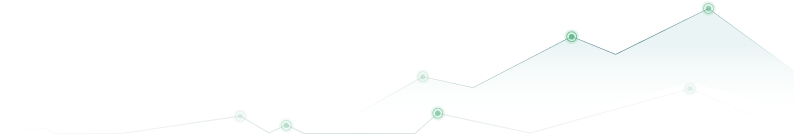
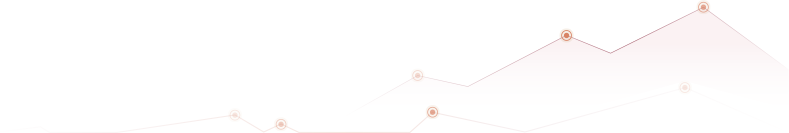
landing and drag animations

diff --git a/app/landing-3/css/main.css b/app/landing-3/css/main.css
@@ -53,7 +53,7 @@ nav ul {
     padding: 0;
 }
 nav a {
-    color: #4b949c;
+    color: #5a5a5a;
     font-size: 14px;
     font-weight: 400;
     line-height: 20px;
@@ -63,10 +63,10 @@ nav a {
 }
 nav a:hover {
     text-decoration: none;
-    color: #53BFC4;
+    color: #cb580b;
 }
 nav a:hover div.signIn {
-    background: url(../img/sign-in-hover.png);
+    background: url(../img/sign-in-hover2.png);
 }
 nav a {
     float: left;
@@ -136,11 +136,11 @@ body {
     height: 70px;
 }
 .footer-container {
-    background: url(../img/texture.png), -webkit-linear-gradient(-170deg, #e4dfc0 0%, #adb9a2 40%, #509c98 100%);
-    background: url(../img/texture.png), -moz-linear-gradient(-170deg, #e4dfc0 0%, #adb9a2 40%, #509c98 100%);
-    background: url(../img/texture.png), -o-linear-gradient(-170deg, #e4dfc0 0%, #adb9a2 40%, #509c98 100%);
-    background: url(../img/texture.png), -ms-linear-gradient(-170deg, #e4dfc0 0%, #adb9a2 40%, #509c98 100%);
-    background: url(../img/texture.png), linear-gradient(260deg, #e4dfc0 0%, #adb9a2 40%, #509c98 100%);
+	background: url(../img/texture-orange.png), -webkit-linear-gradient(45deg, #f28365 0%, #fbbc8a 100%);
+	background: url(../img/texture-orange.png), -moz-linear-gradient(45deg, #f28365 0%, #fbbc8a 100%);
+	background: url(../img/texture-orange.png), -o-linear-gradient(45deg, #f28365 0%, #fbbc8a 100%);
+	background: url(../img/texture-orange.png), -ms-linear-gradient(45deg, #f28365 0%, #fbbc8a 100%);
+	background: url(../img/texture-orange.png), linear-gradient(45deg, #f28365 0%, #fbbc8a 100%);
     opacity: 0.9;
     text-align: center;
 }
@@ -150,21 +150,25 @@ body {
 .header-container {
     background: #FDFEFE;
 }
+.header-container .wrapper{
+	padding: 0 30px;
+}
 .logo {
+	background: url("../img/logo-landing.png") no-repeat;
     color: #4b949c;
     font-size: 20px;
     font-weight: 300;
     line-height: 35px;
-    width: 50px;
+    width: 260px;
     float: left;
     height: 50px;
 }
 .slides-bg {
-    background: -webkit-linear-gradient(90deg, rgba(255, 255, 255, 0) 0%, rgba(102, 187, 144, 0.2) 100%);
-    background: -moz-linear-gradient(90deg, rgba(255, 255, 255, 0) 0%, rgba(102, 187, 144, 0.2) 100%);
-    background: -o-linear-gradient(90deg, rgba(255, 255, 255, 0) 0%, rgba(102, 187, 144, 0.2) 100%);
-    background: -ms-linear-gradient(90deg, rgba(255, 255, 255, 0) 0%, rgba(102, 187, 144, 0.2) 100%);
-    background: linear-gradient(0deg, rgba(255, 255, 255, 0) 0%, rgba(102, 187, 144, 0.2) 100%);
+	background: -webkit-linear-gradient(90deg, rgba(255, 255, 255, 0.2) 0%, rgba(255, 253, 249, 0) 3%, rgba(255, 211, 111, 0.7) 100%);
+	background: -moz-linear-gradient(90deg, rgba(255, 255, 255, 0.2) 0%, rgba(255, 253, 249, 0) 3%, rgba(255, 211, 111, 0.7) 100%);
+	background: -o-linear-gradient(90deg, rgba(255, 255, 255, 0.2) 0%, rgba(255, 253, 249, 0) 3%, rgba(255, 211, 111, 0.7) 100%);
+	background: -ms-linear-gradient(90deg, rgba(255, 255, 255, 0.2) 0%, rgba(255, 253, 249, 0) 3%, rgba(255, 211, 111, 0.7) 100%);
+	background: linear-gradient(0deg, rgba(255, 255, 255, 0.2) 0%, rgba(255, 253, 249, 0) 3%, rgba(255, 211, 111, 0.7) 100%);
     height: 276px;
     position: fixed;
     opacity: 0.2;
@@ -175,7 +179,7 @@ body {
 }
 .slide h1 {
     font-weight: 300;
-    color: #4b949c;
+    color: #f28365;
     font-size: 47px;
     font-weight: 100;
     line-height: 52px;
@@ -187,12 +191,11 @@ body {
     position: relative;
 }
 .middle {
-    background-image: url("../img/texture.png");
-    background: url("../img/texture.png"), -webkit-linear-gradient(248deg, #e4dfc0 0%, #adb9a2 50%, #509c98 100%);
-    background: url("../img/texture.png"), -moz-linear-gradient(248deg, #e4dfc0 0%, #adb9a2 50%, #509c98 100%);
-    background: url("../img/texture.png"), -o-linear-gradient(248deg, #e4dfc0 0%, #adb9a2 50%, #509c98 100%);
-    background: url("../img/texture.png"), -ms-linear-gradient(248deg, #e4dfc0 0%, #adb9a2 50%, #509c98 100%);
-    background: url("../img/texture.png"), linear-gradient(248deg, #e4dfc0 0%, #adb9a2 50%, #509c98 100%);
+	background: url(../img/texture-orange.png), -webkit-linear-gradient(45deg, #f28365 0%, #fbbc8a 100%);
+	background: url(../img/texture-orange.png), -moz-linear-gradient(45deg, #f28365 0%, #fbbc8a 100%);
+	background: url(../img/texture-orange.png), -o-linear-gradient(45deg, #f28365 0%, #fbbc8a 100%);
+	background: url(../img/texture-orange.png), -ms-linear-gradient(45deg, #f28365 0%, #fbbc8a 100%);
+	background: url(../img/texture-orange.png), linear-gradient(45deg, #f28365 0%, #fbbc8a 100%);
     position: relative;
     color: #fff;
 }
@@ -257,7 +260,7 @@ footer h2 {
     background: url(../img/arrow_up_hover.png);
 }
 .icon.signIn {
-    background: url(../img/sign-in.png);
+    background: url(../img/sign-in-black.png);
     float: right;
     width: 20px;
     height: 20px;
@@ -603,19 +606,23 @@ Carousel
     width: 40px;
     height: 40px;
 }
-.arrow-right {
+.arrow-right,.arrow-left  {
     background: url(../img/arrow-right.png) no-repeat center;
+	opacity: 0.5;
+	-webkit-transition: opacity 0.2s;
+	-moz-transition: opacity 0.2s;
+	-ms-transition: opacity 0.2s;
+	-o-transition: opacity 0.2s;
+	transition: opacity 0.2s;
     left: -38px;
 }
 .arrow-left {
     background: url(../img/arrow-right.png) no-repeat center;
 }
-.arrow-right:hover {
-    background: url(../img/arrow-right-hover.png) no-repeat center;
+.arrow-right:hover, .arrow-left:hover {
+	opacity: 1;
 }
-.arrow-left:hover {
-    background: url(../img/arrow-right-hover.png) no-repeat center;
-}
+
 .arrow-left, .arrow-left:hover {
     -webkit-transform: rotate(180deg);
     -ms-transform: rotate(180deg);
@@ -737,8 +744,8 @@ WIDE: Main
         right: 192px;
     }
     .slide2-image {
-        bottom: -28px;
-        right: -41px;
+		bottom: 52px;
+		right: -57px;
     }
     .slide3-receipt {
         display: block;
@@ -756,7 +763,7 @@ WIDE: Main
         left: 18px;
     }
     .middle p {
-        padding-right: 80px;
+        padding-right: 30px;
     }
     .slide-header {
         padding-top: 40px;

diff --git a/app/css/app.css b/app/css/app.css
@@ -952,37 +952,40 @@ div.tags {
     text-align: center;
     vertical-align: middle;
     display: table-cell;
-    height: 17px;
-    width: 17px;
+    height: 20px;
+    width: 19px;
     margin-top: 5px;
 }
 .side-bar li .expenses-icon {
-    background: url(../img/icon_costs_grey.png);
+    background: url(../img/icon_costs_grey.png) 3px 1px no-repeat;
 }
 .side-bar li .statistics-icon {
-    background: url(../img/icon_statistics_grey.png);
+    background: url(../img/icon_statistics_grey.png) 3px 1px no-repeat;
 }
 .side-bar li .tagstats-icon {
-    background: url(../img/bytag-black.png);
+    background: url(../img/bytag-black.png) 3px 1px no-repeat;
 }
 .side-bar li .settings-icon {
-    background: url(../img/icon_settings_grey.png);
+    background: url(../img/icon_settings_grey.png) 2px 1px no-repeat;
 }
 .side-bar li.active .expenses-icon {
-    background: url(../img/icon_costs_white.png);
+    background: url(../img/icon_costs_white.png) 3px 1px no-repeat;
 }
 .side-bar li.active .statistics-icon {
-    background: url(../img/icon_statistics_white.png);
+    background: url(../img/icon_statistics_white.png) 3px 1px no-repeat;
 }
 .side-bar li.active .settings-icon {
-    background: url(../img/icon_settings_white.png);
+    background: url(../img/icon_settings_white.png) 2px 1px no-repeat;
 }
 .side-bar li.active .tagstats-icon {
-    background: url(../img/bytag-white.png);
+    background: url(../img/bytag-white.png) 3px 1px no-repeat;
 }
 .side-bar ul li:nth-child(2) {
     border-top: 1px solid rgba(90, 90, 90, 0.1);
     border-bottom: 1px solid rgba(90, 90, 90, 0.1);
+}
+.side-bar ul li:nth-child(3){
+	border-bottom: 1px solid rgba(90, 90, 90, 0.1);
 }
 .tableAction {
     margin-left: 5px;
@@ -1669,6 +1672,33 @@ div[ng-view].ng-leave {
 .stat-tags a {
     margin-left: 12px;
 }
+.tag-list-td .transaction-tags .beforeTag, .tag-list-td .transaction-tags a{
+	-webkit-transition: none;
+	-moz-transition: none;
+	-ms-transition: none;
+	-o-transition: none;
+	transition: none;
+ }
+.tag-list-td .transaction-tags a{
+	transition: box-shadow 0.2s ease-out;
+}
+.stat-tag{
+	-webkit-transition: transform 0.2s ease-out;
+	-moz-transition: transform 0.2s ease-out;
+	-ms-transition: transform 0.2s ease-out;
+	-o-transition: transform 0.2s ease-out;
+	transition: transform 0.2s ease-out;
+}
+.stat-tag:hover{
+	-webkit-transform: translateY(-2px);
+	-moz-transform: translateY(-2px);
+	-ms-transform: translateY(-2px);
+	-o-transform: translateY(-2px);
+	transform: translateY(-2px);
+}
+.stat-tags a:hover{
+	/*box-shadow: 4px 0px 7px 0px rgba(50, 50, 50, 0.2);*/
+}
 .beforeTag {
     content: "";
     float: left;
@@ -2098,11 +2128,11 @@ tr.selected .chekin-icon {
         left: 36px;
     }
     .side-bar li.active .pointer img {
-        max-height: 36px;
+        max-height: 33px;
     }
     .side-bar li {
         width: 36px;
-        height: 36px;
+        height: 33px;
     }
     .side-bar li span {
         display: none;
@@ -2871,7 +2901,7 @@ table.table thead .sorting .sort-icon {
     background: linear-gradient(0deg, rgba(0, 0, 0, 0.06) 0, rgba(79, 79, 79, 0.06) 21%, rgba(79, 79, 79, 0) 70%, rgba(255, 255, 255, .02) 70%, rgba(79, 79, 79, 0.06) 99%, rgba(0, 0, 0, 0.06) 100%);
     background-color: rgba(255, 255, 255, 0.7);
     border-right: 2px solid #fff;
-    padding-left: 20px;
+    padding-left: 9px;
 	border-bottom: 1px solid #fff;
 }
 .bar {
@@ -3015,6 +3045,8 @@ table.table thead .sorting .sort-icon {
     background-color: rgba(0, 0, 0, 0.15);
     border-radius: 6px;
 }
+.tagstats-filter .tags-box:hover{
+}
 .tagstats-filter .host .tags {
 	background: none 10px !important;
 	padding-top: 5px;
@@ -3027,6 +3059,35 @@ table.table thead .sorting .sort-icon {
 	-ms-transition: background-position 0.2s ease;
 	-o-transition: background-position 0.2s ease;
 	transition: background-position 0.2s ease;
+}
+.tagstats-filter .is-dragging .empty .host .tags{
+	background: url(../img/tag-drag-2.png) 10px no-repeat !important;
+	background-position: 185px !important;
+}
+.tagstats-filter .tags:before{
+	opacity: 0;
+	-webkit-transition: opacity 0.1s linear 0s;
+	-moz-transition: opacity 0.1s linear 0s;
+	-ms-transition: opacity 0.1s linear 0s;
+	-o-transition: opacity 0.1s linear 0s;
+	transition: opacity 0.1s linear 0s;
+	content: 'Перенесите тег';
+	display: inline-block;
+	height: 41px;
+	position: absolute;
+	padding: 2px 0 0 2px;
+}
+.is-dragging .empty .tags:before{
+	opacity: 0.3;
+	-webkit-transition-delay: 0.1s;
+	-moz-transition-delay: 0.1s;
+	-ms-transition-delay: 0.1s;
+	-o-transition-delay: 0.1s;
+	transition-delay: 0.1s;
+}
+.tagstats-filter tags-input .tags .tag-item{
+	opacity: 0.99;
+	z-index: 10;
 }
 .tagstats-filter .empty .host .tags.focused {
 	background-position: 185px !important;
@@ -3057,4 +3118,7 @@ table.table thead .sorting .sort-icon {
     background: transparent;
     color: #fff;
     border: 1px solid #FFFFFF;
+}
+.tagstats-content{
+	min-height: 518px;
 }

diff --git a/app/landing-3/index.html b/app/landing-3/index.html
@@ -28,11 +28,9 @@
         <p class="browsehappy">You are using an <strong>outdated</strong> browser. Please <a href="http://browsehappy.com/">upgrade your browser</a> to improve your experience.</p>
         <![endif]-->
   <div class="header-container">
-    <header class="wrapper main clearfix">
+    <header class="wrapper clearfix">
       <div>
         <h2 class="logo">
-          eye<b>Spend</b>
-          <!-- <img src=/Logo.png" height="20" width="90" alt=""> -->
         </h2>
         <nav>
           <ul>
@@ -73,10 +71,10 @@
                         <img src="landing-3/img/analyze-icon.png" height="55" width="55" alt="">
                       </div>
                       <div class="slide-1-icon">
-                        <img src="landing-3/img/expenses-icon.png" height="55" width="55" alt="">
+                        <img src="landing-3/img/expenses-icon2.png" height="55" width="55" alt="">
                       </div>
                       <div class="slide-1-icon">
-                        <img src="landing-3/img/stats-icon.png" height="55" width="55" alt="">
+                        <img src="landing-3/img/stats-icon2.png" height="55" width="55" alt="">
                       </div>
                     </div>
                   </div>
@@ -136,7 +134,7 @@
                   </div>
                 </div>
                 <div class="slide2-image animated flipInXShortRevert">
-                  <img src="landing-3/img/Excel.png" alt="">
+                  <img src="landing-3/img/Excel2.png" alt="">
                 </div>
                 <div class="slide2-phone animated flipInXShortRevert">
                   <img src="landing-3/img/iPhone-01.png" alt="">

diff --git a/app/tagstats/_filters-tagstats.html b/app/tagstats/_filters-tagstats.html
@@ -1,7 +1,7 @@
 <div class="tag-stat-filters">
 	<div class="tagstats-filter include">
 		<div class="filter-header">Перенесите тег</div>
-		<div class="tags-box include" data-drop="true" jqyoui-droppable="{onDrop:'vm.tagDropped()'}">
+		<div class="tags-box include" data-drop="true" ng-class="{'is-dragging':vm.isDragging}" jqyoui-droppable="{onDrop:'vm.tagDropped()'}">
 			<tags-input ng-class="{empty:vm.includeTags.length === 0}" ng-model="vm.includeTags" on-tag-added="vm.tagFilterChange()" on-tag-removed="vm.tagFilterChange()" placeholder="&nbsp;">
 				<auto-complete source="vm.loadTags()" min-length="0" debounce-delay="0" max-results="5">
 				</auto-complete>
@@ -11,7 +11,7 @@
 	</div>
 	<div class="tagstats-filter exclude">
 		<div class="filter-header">Перенесите тег</div>
-		<div class="tags-box exclude" data-drop="true" jqyoui-droppable="{onDrop:'vm.tagDropped()'}">
+		<div class="tags-box exclude" data-drop="true" ng-class="{'is-dragging':vm.isDragging}" jqyoui-droppable="{onDrop:'vm.tagDropped()'}">
 			<tags-input ng-class="{empty:vm.excludeTags.length === 0}" on-tag-added="vm.tagFilterChange()" on-tag-removed="vm.tagFilterChange()" ng-model="vm.excludeTags" placeholder="&nbsp;">
 				<auto-complete source="vm.loadTags()" min-length="0" debounce-delay="0" max-results="5">
 				</auto-complete>

diff --git a/app/tagstats/_table-tagstats.html b/app/tagstats/_table-tagstats.html
@@ -3,7 +3,8 @@
 		<tr ng-repeat="tagstat in vm.tagStats">
 			<td class="tag-list-td">
 				<div class="transaction-tags stat-tags">
-					<div ng-repeat="tag in tagstat.tags" class="stat-tag" data-drag="true" data-jqyoui-options="{revert: 'invalid'}" jqyoui-draggable="{placeholder:'keep', animate:true}">
+					<div ng-repeat="tag in tagstat.tags" class="stat-tag" data-drag="true" data-jqyoui-options="{revert: 'invalid'}"
+						 jqyoui-draggable="{placeholder:'keep', animate:true, onStart:'vm.dragStart()', onStop:'vm.dragStop()'}">
 						<span ng-style="{'border-color':vm.getTagColorStyle(tag.color)}" class="beforeTag"></span>
 						<a ng-style="{'background':tag.color}" href="javascript:void(0)">{{tag.text}}</a>
 					</div>

diff --git a/app/shell/shell.html b/app/shell/shell.html
@@ -79,5 +79,4 @@
             </li>
         </ul>
     </nav>
-
 </div>
